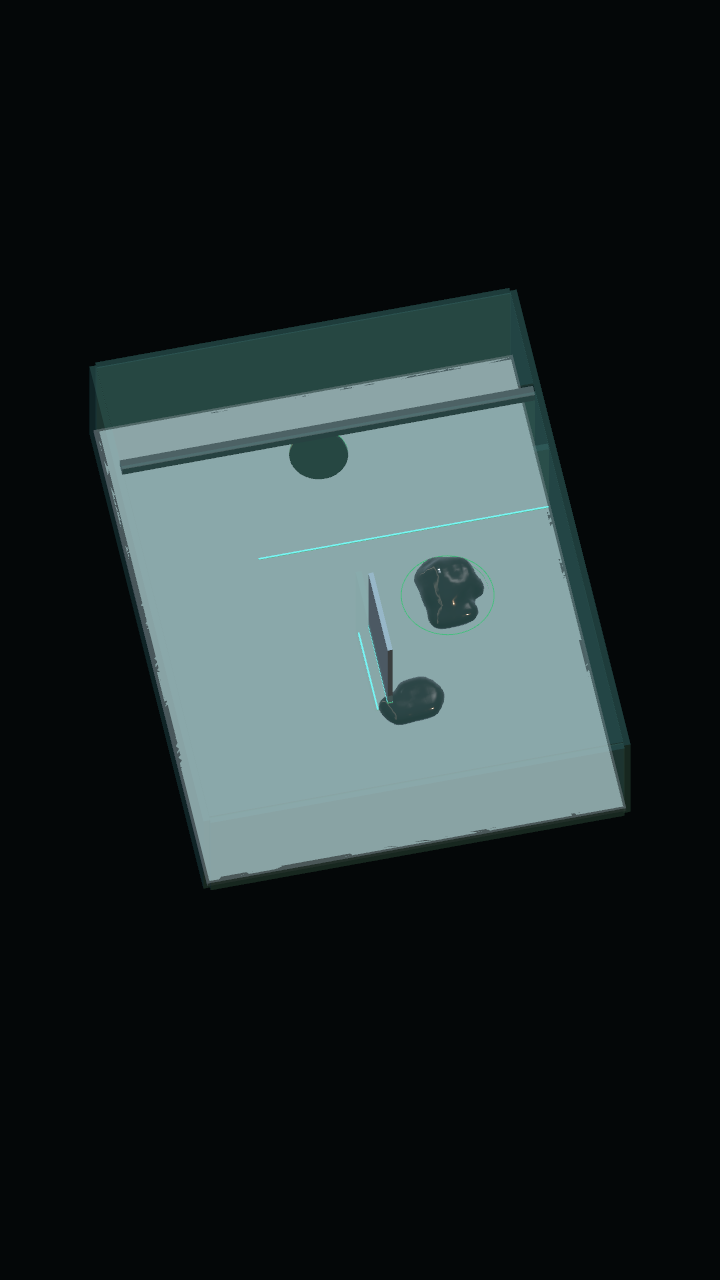
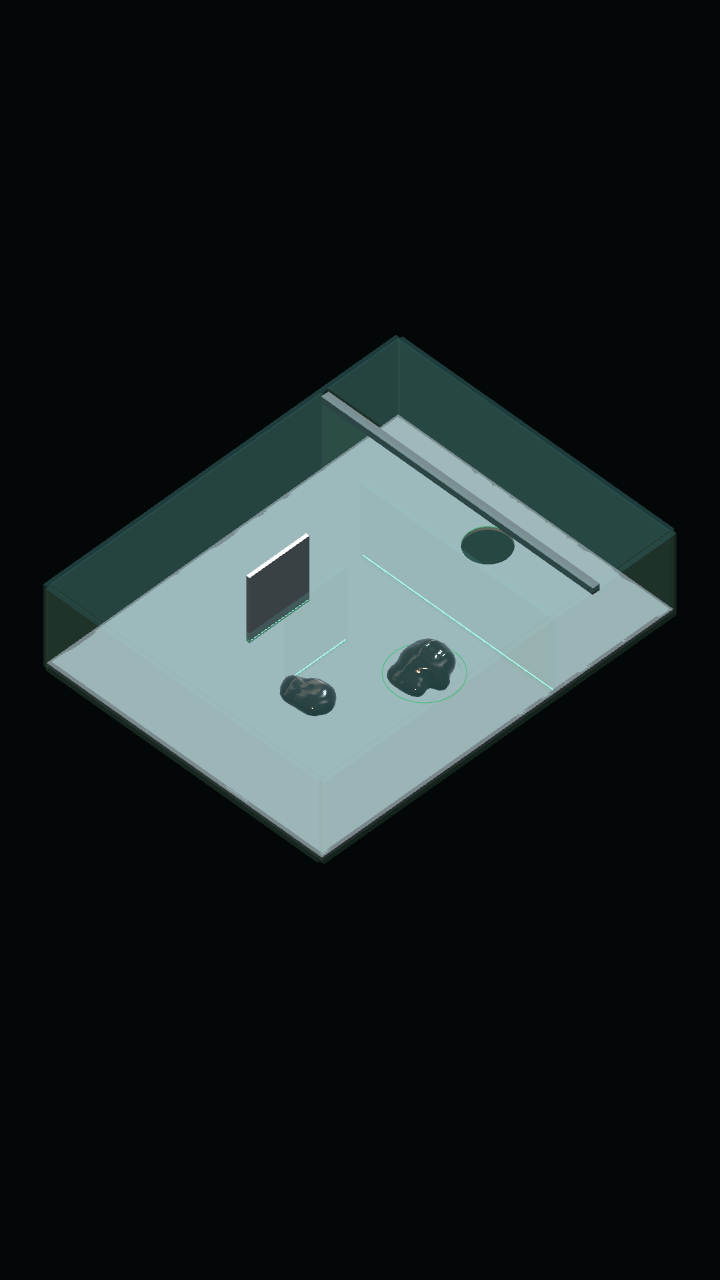
Give Venom 03 a three-quarter camera view

Changed region(s): [[0.0611, 0.2188, 0.9472, 0.7188]]

diff --git a/Assets/_Game/Venom/Runtime/VenomCameraFraming.cs b/Assets/_Game/Venom/Runtime/VenomCameraFraming.cs
@@ -6,11 +6,11 @@ namespace GravityBox.Venom
     public static class VenomCameraFraming
     {
         // 02: read/select both pieces like a tabletop puzzle.
-        // 03: look from the spawn end toward the outlet; raised gates move
-        // away from the approaching body in screen space instead of covering it.
+        // 03: three-quarter view from the spawn-side left corner. This
+        // exposes the depth while keeping the blade away from the reunion area.
         // Keep a fixed heading so input directions never drift during a hold.
         public static Quaternion Orientation(VenomControlMode mode) =>
-            mode == VenomControlMode.SelectFragment ? Quaternion.Euler(88,0,0) : Quaternion.Euler(58,192,0);
+            mode == VenomControlMode.SelectFragment ? Quaternion.Euler(88,0,0) : Quaternion.Euler(45,135,0);
 
         public static void Frame(VenomLevelController level, int width, int height)
         {

diff --git a/Assets/_Game/Editor/VenomPrototypeBuilder.cs b/Assets/_Game/Editor/VenomPrototypeBuilder.cs
@@ -165,7 +165,7 @@ namespace GravityBox.Editor
                 VenomCameraFraming.Frame(owner,540,960);
                 EditorSceneManager.SaveScene(scene,Scenes[number-1]);
             }
-            Debug.Log("VENOM CAMERAS UPDATED: 02 overhead 88 degrees; 03 oblique 58 degrees from the spawn end, 12 degrees to its right.");
+            Debug.Log("VENOM CAMERAS UPDATED: 02 overhead 88 degrees; 03 three-quarter view, 45 degrees down and 45 degrees from the spawn-side left corner.");
         }
         private static void Transparent(Material material)
         {

diff --git a/Docs/VENOM_CONTROLS_02_03.md b/Docs/VENOM_CONTROLS_02_03.md
@@ -14,7 +14,7 @@ App macOS `Builds/Venom/macOS/Venom.app` có ba nút chọn màn ở đầu màn
 ## Camera theo cách điều khiển
 
 - **Màn 02:** camera orthographic nhìn xuống **88° so với mặt sàn**, thẳng theo trục hộp. Hai công tắc và hai nửa hộp dễ so sánh, thuận tiện chạm chọn phần và căn vị trí. Góc gần thẳng đứng giúp thanh cửa đang nâng không che phần đứng trên công tắc.
-- **Màn 03:** camera orthographic nhìn xuống **58°**, nhìn chếch **12°** từ phía sau, ở đầu xuất phát của chủ thể. Sinh vật bắt đầu ở gần người chơi và tiến về lỗ ở phía trên màn hình. Góc này bộc lộ phần đầu kéo, mô phía sau, độ cao của vách và hình dạng lúc nhập lại. Khung hình chứa cả hộp để người chơi theo dõi chủ thể lẫn phần nhỏ đang vòng về.
+- **Màn 03:** camera orthographic **góc nhìn 3/4**, nhìn xuống **45°** và nhìn chéo **45°** từ góc trái đầu xuất phát. Sinh vật bắt đầu ở gần người chơi và tiến về lỗ ở phía trên màn hình. Góc này bộc lộ phần đầu kéo, mô phía sau, độ cao của vách và hình dạng lúc nhập lại. Khung hình chứa cả hộp để người chơi theo dõi chủ thể lẫn phần nhỏ đang vòng về.
 - Góc và khung bao cơ cấu cố định trong từng màn. Cắt/đổi phần/nhập lại không làm camera xoay hoặc zoom; màn 01 giữ góc quan sát cũ. Camera tính lại tỷ lệ theo kích thước cửa sổ để tránh HUD.
 - Ánh xạ giữ–kéo bù độ co ngắn của mặt sàn khi nhìn chéo: hướng di chuyển chiếu lên màn hình khớp hướng ngón tay. Độ lớn joystick vẫn điều khiển tốc độ yêu cầu như trước.
 
@@ -72,4 +72,8 @@ Kết quả ngày 10/09/2026:
 
 ### Kiểm tra góc camera riêng cho hai màn
 
-Đã chạy 8/8 kiểm tra điều khiển với camera có đồ họa, sau đó chạy lại riêng cả hai đường giải đầy đủ ở góc chốt cuối (88° và 58°/12°): 2/2 qua, đủ 32/32 hạt thoát mỗi màn. Đã xem ảnh khi hai nút cùng được giữ, phần nhỏ tìm về và nhập lại để chọn góc ít bị thanh cửa/lưỡi chém che. Log/XML/capture tại `Artifacts/VenomCamera`. Camera cố định, giữ cả hộp và các phần trong cùng khung hình. Bản macOS đã build lại thành công với hai góc này.
+Đã chạy 8/8 kiểm tra điều khiển với camera có đồ họa, sau đó chạy lại riêng cả hai đường giải đầy đủ ở góc trước lần thử 3/4 (88° và 58°/12°): 2/2 qua, đủ 32/32 hạt thoát mỗi màn. Đã xem ảnh khi hai nút cùng được giữ, phần nhỏ tìm về và nhập lại để chọn góc ít bị thanh cửa/lưỡi chém che. Log/XML/capture tại `Artifacts/VenomCamera`. Camera cố định, giữ cả hộp và các phần trong cùng khung hình. Bản macOS đã build lại thành công với hai góc này.
+
+### Màn 03: thử góc nhìn 3/4
+
+Theo yêu cầu tiếp theo, đổi riêng màn 03 sang camera 3/4 từ góc trái đầu xuất phát: cao 45°, chéo 45° (rotation Unity 45°, 135°, 0°). Góc này cho thấy mặt sàn và độ sâu hai thành hộp, đồng thời đưa lưỡi chém sang bên trong ảnh quan sát cảnh hợp thể. Đã xem ảnh tìm về/nhập lại và chạy lại đường giải đầy đủ: 1/1 qua, đủ 32/32 hạt thoát. Capture/XML/log tại `Artifacts/VenomCamera/ThreeQuarter` và `Artifacts/VenomCamera/three-quarter.*`.

diff --git a/README.md b/README.md
@@ -14,7 +14,7 @@ Nhánh **`Venom`** có ba màn thử nghiệm điều khiển sinh vật mềm. 
 - Build lại: `bash Tools/build-venom.sh` (đóng Unity đang mở project trước). Build macOS có cả ba màn; chưa xuất APK cho biến thể Venom.
 - [Thiết kế màn 01](Docs/VENOM_PROTOTYPE_01.md) · [Điều khiển, navigation và kiến trúc màn 02–03](Docs/VENOM_CONTROLS_02_03.md).
 
-Camera màn 02 nhìn gần thẳng từ trên xuống (**88°**) để dễ chọn hai phần/căn công tắc; màn 03 nhìn chéo từ đầu xuất phát (**58°, lệch 12°**) để thấy rõ chuyển động thân và phần đi theo. Cả hộp nằm trong khung hình; giữ–kéo được căn theo hướng nhìn mới.
+Camera màn 02 nhìn gần thẳng từ trên xuống (**88°**) để dễ chọn hai phần/căn công tắc; màn 03 nhìn **3/4 từ góc trái đầu xuất phát**, cao **45°** và chéo **45°** để thấy rõ chuyển động thân và phần đi theo. Cả hộp nằm trong khung hình; giữ–kéo được căn theo hướng nhìn mới.
 
 Sinh vật dùng hạt vật lý liên kết nhớt/dẻo và bề mặt metaball liên tục. Đây là mô hình vật chất mềm phục vụ thử gameplay, chưa phải solver chất lỏng bảo toàn thể tích. Nội dung 23 bàn bi thép bên dưới vẫn có thể mở qua scene `Gameplay.unity`; build Venom dùng scene riêng.
 

diff --git a/Docs/Images/VenomControls/README.md b/Docs/Images/VenomControls/README.md
@@ -1,6 +1,6 @@
 # Venom 02–03 — Ảnh từ mô phỏng Unity
 
-Ảnh được render bằng camera scene trong `VenomControlTests`, Unity 6000.3.19f1, graphics enabled. Đường giải điều khiển sinh vật bằng lực bám–kéo; không đặt vị trí hạt trong lúc giải. Ảnh cập nhật góc camera ngày 10/09/2026: màn 02 nhìn xuống 88°; màn 03 nhìn từ đầu xuất phát, góc cao 58° và lệch phải 12°. Các ảnh camera dưới đây không có HUD native.
+Ảnh được render bằng camera scene trong `VenomControlTests`, Unity 6000.3.19f1, graphics enabled. Đường giải điều khiển sinh vật bằng lực bám–kéo; không đặt vị trí hạt trong lúc giải. Ảnh cập nhật góc camera ngày 10/09/2026: màn 02 nhìn xuống 88°; màn 03 góc nhìn 3/4 từ góc trái đầu xuất phát, cao 45° và chéo 45°. Các ảnh camera dưới đây không có HUD native.
 
 ## Màn 02: hai phần cùng giữ công tắc
 
